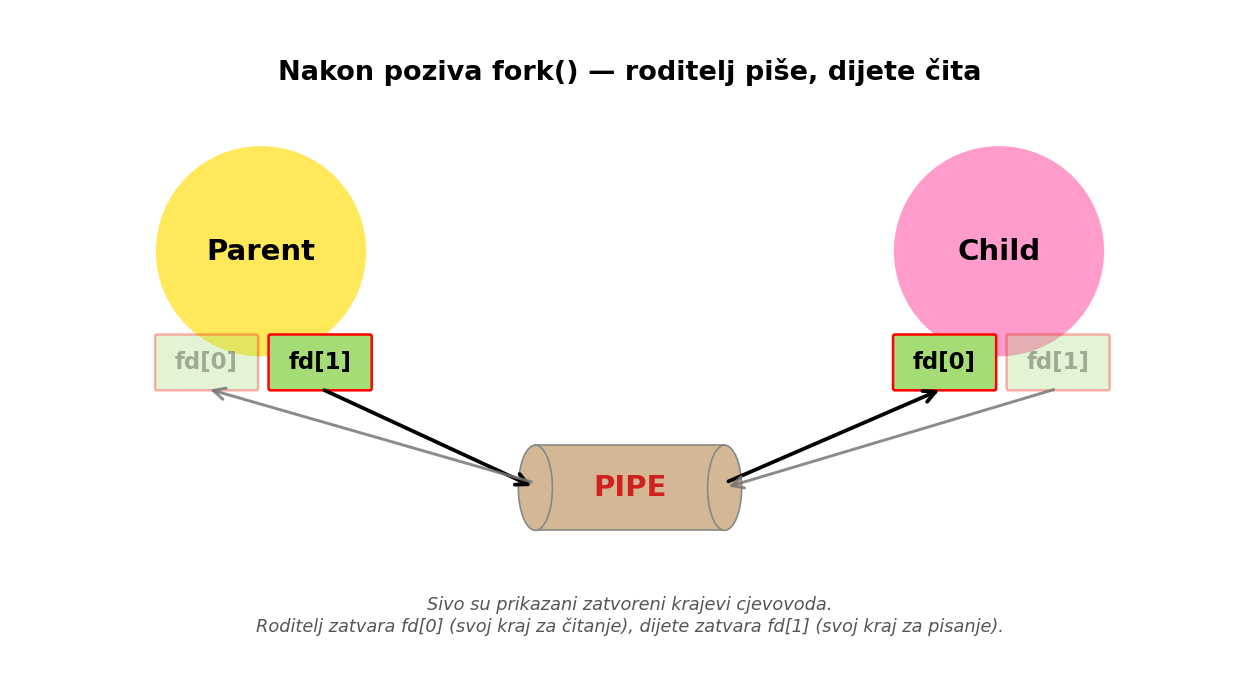
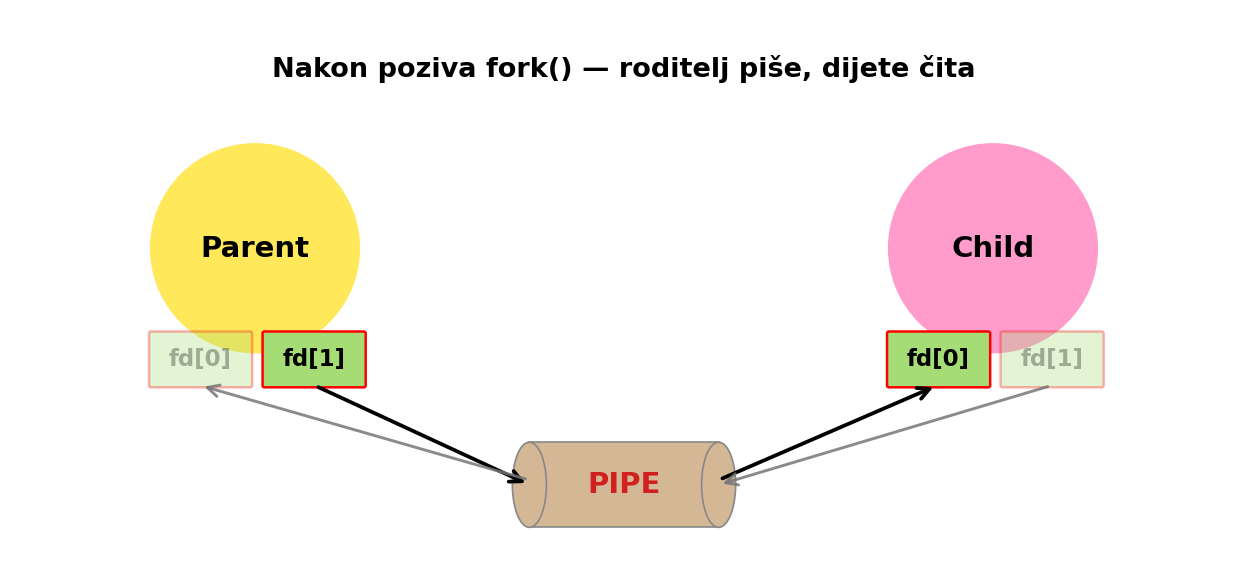
Sredjena numeracija slika u svim README datotekama

diff --git a/P05-Okruzenje_procesa/README.md b/P05-Okruzenje_procesa/README.md
@@ -15,9 +15,12 @@ Prvi oblik koristimo kada program ne očekuje dodatne opcije i argumente koje ko
 
 Prilikom pozivanja bilo koje naredbe u UNIX ljusci, ljuska analizira niz znakova kojim korisnik želi pokrenuti naredbu i dijeli ga na podnizove odvojene razmacima. Ovaj postupak nazivamo **tokenizacija**, a rezultat je niz **tokena** — stringova koji redom sadrže pozvanu naredbu i sve argumente koje je korisnik naveo. Ukoliko ovim stringovima želimo pristupiti iz našeg programa, koristimo drugi oblik funkcije `main`, kod kojeg funkcija prima dva argumenta: cjelobrojni `argc` u kojem je pohranjen ukupan broj stringova navedenih u naredbenom retku (uključujući i naredbu kojom je program pozvan), i polje pokazivača na znakovni niz `argv`, u kojem su ovi stringovi redom pohranjeni.
 
-Argumenti naredbenog retka nalaze se na samom vrhu adresnog prostora procesa, kako je prikazano na slici:
+Argumenti naredbenog retka nalaze se na samom vrhu adresnog prostora procesa, kako je prikazano na slici 1:
 
-![Memorijska slika UNIX procesa](slike/memorijska_slika.png)
+<p align="center">
+  <img src="slike/memorijska_slika.png" alt="Memorijska slika (adresni prostor) UNIX procesa"><br>
+  <em>Slika 1: Memorijska slika (adresni prostor) UNIX procesa</em>
+</p>
 
 Najjednostavniji način pristupa je iteriranje kroz polje pokazivača `argv`, od prvog elementa (indeks 0) koji pokazuje na samu naredbu, do posljednjeg s indeksom `argc-1`.
 
@@ -37,9 +40,12 @@ argv[3] = "drugi_argument"
 argv[4] = NULL
 ```
 
-Uočimo dva detalja: ljuska tokenizira naredbeni redak tako da tokene razdvaja temeljem razmaka (*space*) — praznog prostora između njih. Pri tom je svejedno koristimo li jedan ili više razmaka (više puta pritisnuta tipka *space* prilikom unosa). Dodatno, pored pokazivača `argv[0]` do `argv[argc-1]`, uvijek postoji i posljednji pokazivač u nizu s indeksom `argc`, koji pokazuje na vrijednost `NULL`, tj. `(void*)0`. Organizacija polja `argv` u memoriji shematski je prikazana na sljedećoj slici:
+Uočimo dva detalja: ljuska tokenizira naredbeni redak tako da tokene razdvaja temeljem razmaka (*space*) — praznog prostora između njih. Pri tom je svejedno koristimo li jedan ili više razmaka (više puta pritisnuta tipka *space* prilikom unosa). Dodatno, pored pokazivača `argv[0]` do `argv[argc-1]`, uvijek postoji i posljednji pokazivač u nizu s indeksom `argc`, koji pokazuje na vrijednost `NULL`, tj. `(void*)0`. Organizacija polja `argv` u memoriji shematski je prikazana na slici 2:
 
-![Organizacija argumenata naredbenog retka u memoriji procesa](slike/args.png)
+<p align="center">
+  <img src="slike/args.png" alt="Organizacija argumenata naredbenog retka u memoriji procesa"><br>
+  <em>Slika 2: Organizacija argumenata naredbenog retka u memoriji procesa</em>
+</p>
 
 - [**`argumenti.c`**](argumenti.c) — najjednostavniji mogući primjer rada s argumentima naredbenog retka. Program u petlji prolazi kroz polje `argv[0], ..., argv[argc-1]` i ispisuje indeks i vrijednost svakog argumenta. Koristi se za vizualnu provjeru kako ljuska prenosi naredbeni redak programu — posebno korisno za razumijevanje razdvajanja riječi po razmacima, ponašanja navodnika, ili kako `argv[0]` uvijek nosi ime kojim je program pokrenut.
 
@@ -247,9 +253,12 @@ int main(int argc, char *argv[]) {
 
 Pokazivač `environ` pokazuje na isti niz pokazivača kao i `envp` u trenutku pokretanja procesa — drugim riječima, oba mehanizma daju početno isti pogled na okruženje. Razlika postaje vidljiva tek nakon poziva funkcija `setenv()`, `putenv()` ili `unsetenv()`: te funkcije ažuriraju varijablu `environ` (eventualno realocirajući memoriju), dok `envp` ostaje pokazivati na izvornu, sada zastarjelu kopiju. Drugim riječima, `envp` je "snapshot" okoline u trenutku ulaska u `main`, a `environ` je "živa" referenca.
 
-Organizacija varijabli okruženja u memoriji procesa shematski je prikazana na sljedećoj slici. Bez obzira pristupa li se okruženju kroz `environ` ili kroz `envp`, sama struktura u memoriji uvijek je ista — niz pokazivača na stringove oblika `"IME=vrijednost"` završen `NULL`-om. Razlikuje se samo ime varijable kroz koju mu pristupamo.
+Organizacija varijabli okruženja u memoriji procesa shematski je prikazana na slici 3. Bez obzira pristupa li se okruženju kroz `environ` ili kroz `envp`, sama struktura u memoriji uvijek je ista — niz pokazivača na stringove oblika `"IME=vrijednost"` završen `NULL`-om. Razlikuje se samo ime varijable kroz koju mu pristupamo.
 
-![Organizacija varijabli okruženja u memoriji procesa](slike/environ.png)
+<p align="center">
+  <img src="slike/environ.png" alt="Organizacija varijabli okruženja u memoriji procesa"><br>
+  <em>Slika 3: Organizacija varijabli okruženja u memoriji procesa</em>
+</p>
 
 Za razliku od `envp`, varijabla `environ` **jest** standardizirana — propisuje je POSIX.1-2017. Zanimljivo, to je jedini objekt u POSIX-u kojeg ne deklarira nijedna sistemska zaglavna datoteka, pa korisnik mora sam navesti deklaraciju `extern char **environ;` u svom programu (kao u primjeru iznad). ISO C, ponovo, ovu varijablu uopće ne spominje.
 

diff --git a/P07-Komunikacija_izmedju_procesa/README.md b/P07-Komunikacija_izmedju_procesa/README.md
@@ -51,15 +51,21 @@ int pipe(int fd[3]);
 
 - **`fd`** — polje od dva cijela broja u koje funkcija upisuje dva nova deskriptora datoteke: `fd[0]` (kraj za **čitanje**) i `fd[2]` (kraj za **pisanje**). Zgodno mnemoničko pomagalo: `0` se često asocira sa standardnim ulazom (čitanjem), `1` sa standardnim izlazom (pisanjem).
 
-Nakon stvaranja cjevovoda, proces koji je pozvao `pipe()` drži oba kraja — i čitajući i pisajući deskriptor. U principu, ovaj proces sad može pisati u `fd[2]` i sam čitati to što je napisao iz `fd[0]`, dakle, razgovarati sam sa sobom:
+Nakon stvaranja cjevovoda, proces koji je pozvao `pipe()` drži oba kraja — i čitajući i pisajući deskriptor. U principu, ovaj proces sad može pisati u `fd[2]` i sam čitati to što je napisao iz `fd[0]`, dakle, razgovarati sam sa sobom, kako je prikazano na slici 1:
 
-![Cjevovod odmah nakon poziva pipe()](slike/cjevovod_pipe.png)
+<p align="center">
+  <img src="slike/cjevovod_pipe.png" alt="Proces drži oba kraja cjevovoda"><br>
+  <em>Slika 1: Proces drži oba kraja cjevovoda — može pisati u fd[1] i čitati iz fd[0], tj. razgovarati sam sa sobom.</em>
+</p>
 
 Ljude koji govore sami sa sobom obično "čudno" gledamo, a ni kod procesa ovo nema previše smisla. Cjevovod postaje koristan tek kad ga **dijelimo s drugim procesom**, što se postiže pozivom `fork()` neposredno nakon `pipe()`-a.
 
-Tipičan obrazac: pozovemo `pipe()` u roditelju, zatim `fork()`. Proces dijete nasljeđuje sve otvorene deskriptore datoteka roditelja, pa tako oba procesa sada imaju sva četiri "kraja" cjevovoda (dva u roditelju, dva u djetetu — naslijeđeni). S obzirom da su cjevovodi zamišljeni za jednosmjernu komunikaciju, svaki proces trebao bi zatvoriti onaj kraj koji nema namjeru koristiti: npr. ako će informacija putovati od roditelja prema djetetu, tj. ako roditelj piše a dijete čita, roditelj zatvara `fd[0]`, a dijete `fd[2]`.
+Tipičan obrazac: pozovemo `pipe()` u roditelju, zatim `fork()`. Proces dijete nasljeđuje sve otvorene deskriptore datoteka roditelja, pa tako oba procesa sada imaju sva četiri "kraja" cjevovoda (dva u roditelju, dva u djetetu — naslijeđeni). S obzirom da su cjevovodi zamišljeni za jednosmjernu komunikaciju, svaki proces trebao bi zatvoriti onaj kraj koji nema namjeru koristiti: npr. ako će informacija putovati od roditelja prema djetetu, tj. ako roditelj piše a dijete čita, roditelj zatvara `fd[0]`, a dijete `fd[2]`. Ova situacija prikazana je na slici 2:
 
-![Cjevovod nakon fork() — roditelj piše, dijete čita](slike/cjevovod_fork.png)
+<p align="center">
+  <img src="slike/cjevovod_fork.png" alt="Cjevovod nakon fork() — roditelj piše, dijete čita"><br>
+  <em>Slika 2: Roditelj zatvara fd[0] (svoj kraj za čitanje), dijete zatvara fd[1] (svoj kraj za pisanje). Zatvoreni krajevi cjevovoda prikazani su sivom bojom.</em>
+</p>
 
 Time se uspostavlja jednosmjerni kanal: deskriptor `fd[2]` otvoren za pisanje ostaje otvoren samo u roditelju, dok deskriptor `fd[0]` otvoren za čitanje ostaje otvoren samo u djetetu. Komunikacija u suprotnom smjeru, od djeteta prema roditelju, nije više moguća (barem ne kroz ovaj cjevovod), jer su deskriptori koji bi omogućili komunikaciju u tom smjeru zatvoreni s obje strane. Ako trebamo komunikaciju u oba smjera, uobičajeno je rješenje stvoriti dva cjevovoda, svaki za svoj smjer.
 
@@ -633,9 +639,12 @@ inc  eax             ; korak 2: povecaj eax za 1
 mov  [count], eax    ; korak 3: pohrani vrijednost registra eax natrag u count
 ```
 
-Operacijski sustav u svakom trenutku može prekinuti izvršavanje procesa — između bilo koja dva koraka — i pustiti drugi proces da nastavi. Ako oba procesa rade nad istim podatkom u dijeljenoj memoriji, lako se dogodi sljedeća situacija:
+Operacijski sustav u svakom trenutku može prekinuti izvršavanje procesa — između bilo koja dva koraka — i pustiti drugi proces da nastavi. Ako oba procesa rade nad istim podatkom u dijeljenoj memoriji, lako se dogodi situacija prikazana na slici 3:
 
-![Race condition pri inkrementaciji dijeljenog brojača](slike/race_condition.png)
+<p align="center">
+  <img src="slike/race_condition.png" alt="Stanje utrke pri inkrementaciji dijeljenog brojača"><br>
+  <em>Slika 3: Stanje utrke (race condition) pri inkrementaciji dijeljenog brojača</em>
+</p>
 
 Oba procesa su izvršila po jedno povećanje, ali konačna vrijednost u memoriji je `6`, a ne `7` kako bismo očekivali. Jedna inkrementacija je **izgubljena**, jer su oba procesa pročitala istu staru vrijednost prije nego što je itko stigao zapisati novu. Dok god se procesi izvršavaju neometano (svaki dovrši sva tri koraka prije nego se prebaci na drugog), sve radi ispravno; problem se javlja samo kad ih se "pogode" preklopiti baš oko iste lokacije u strojnom kodu. To čini ovu vrstu pogreške posebno opasnom — javlja se neredovito, i pojavljuje se baš onda kad sustav ima najviše posla.
 
